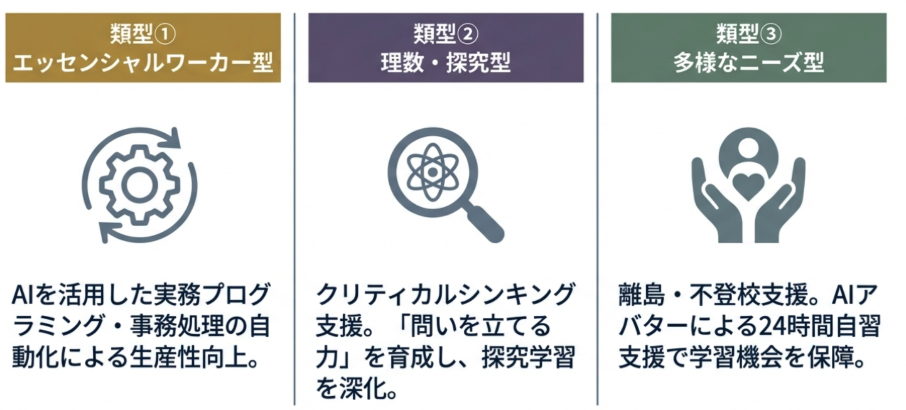
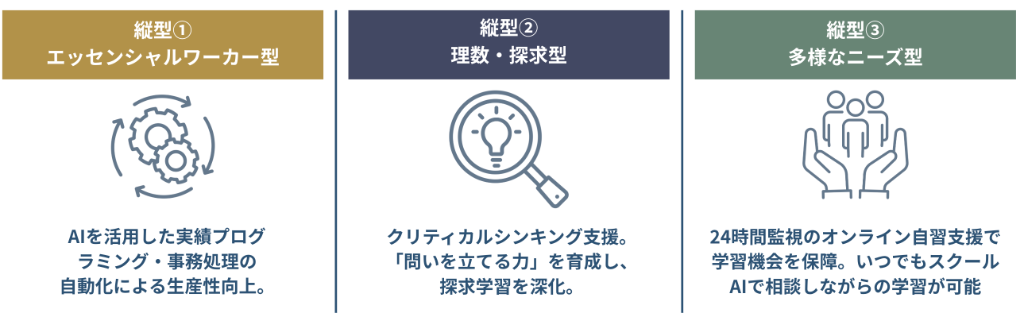
LP修正　3/2_ver.2

diff --git a/src/pages/lp/next-high-school/index.tsx b/src/pages/lp/next-high-school/index.tsx
@@ -4,7 +4,7 @@ import img001 from "./assets/001.png";
 import img002 from "./assets/002.png";
 import img003 from "./assets/003.png";
 import img004 from "./assets/004.png";
-import img005 from "./prompt/構想3.png";
+import img005 from "./assets/005.png";
 import img006 from "./assets/006.png";
 import heroImg from "./assets/hero.jpeg";
 /* 修正1 */
@@ -170,7 +170,7 @@ function NextHighSchool() {
               />
             </a>
             <div className="brand">
-              <span className="brand-mark">N-E.X.T.</span>
+              <span className="brand-mark">N-E.X.T.（ネクスト）</span>
               <span className="brand-name">
                 ハイスクール構想 支援パッケージ
               </span>
@@ -407,13 +407,13 @@ function NextHighSchool() {
         {/* ===== 類型① エッセンシャルワーカー型-2 ===== */}
         <section className="section type-detail" id="type-essential-2">
           <div className="container">
+            <p className="type-detail-subtitle">
+              3つの施策詳細と実装を支える強み
+            </p>
             <h2 className="type-detail-title">
               <span className="type-detail-border" />
               類型① 「エッセンシャルワーカー型」
             </h2>
-            <p className="type-detail-subtitle">
-              3つの施策詳細と実装を支える強み
-            </p>
             <div className="type-detail-grid">
               <div className="type-detail-left">
                 <div className="type-measures">
@@ -1166,7 +1166,7 @@ function NextHighSchool() {
       <footer className="lp-footer" id="materials">
         <div className="container footer-inner">
           <div>
-            <h3>N-E.X.T.ハイスクール 支援パッケージ</h3>
+            <h3>N-E.X.T.（ネクスト）ハイスクール 支援パッケージ</h3>
             <p>自治体教育DXの不可逆な定着と官民共創による地域活性化へ。</p>
 
             <div className="footer-mext-section">

diff --git a/src/pages/lp/next-high-school/style.css b/src/pages/lp/next-high-school/style.css
@@ -1223,11 +1223,11 @@ a.hero-pr-link:hover::after {
 }
 
 .type-detail-subtitle {
-  text-align: center;
-  font-size: 1.2rem;
+  font-family: 'Source Serif 4', 'Noto Sans JP', serif;
+  font-size: clamp(1.5rem, 2.2vw, 2rem);
   font-weight: 700;
   color: var(--color-primary);
-  margin: -8px 0 28px;
+  margin: 0 0 24px;
 }
 
 .type-detail-grid {
@@ -2771,8 +2771,9 @@ a.footer-mext-link:hover::after {
   }
 
   .type-detail-subtitle {
-    font-size: 1rem;
-    margin: -4px 0 20px;
+    font-family: 'Source Serif 4', 'Noto Sans JP', serif;
+    font-size: clamp(1.1rem, 5vw, 1.4rem);
+    margin: 0 0 20px;
   }
 
   .type-purpose-card {
